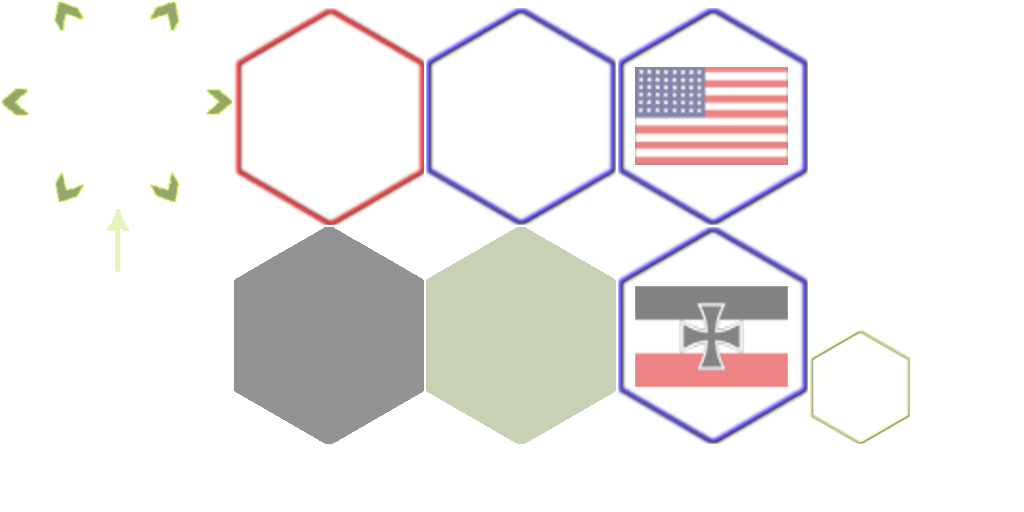
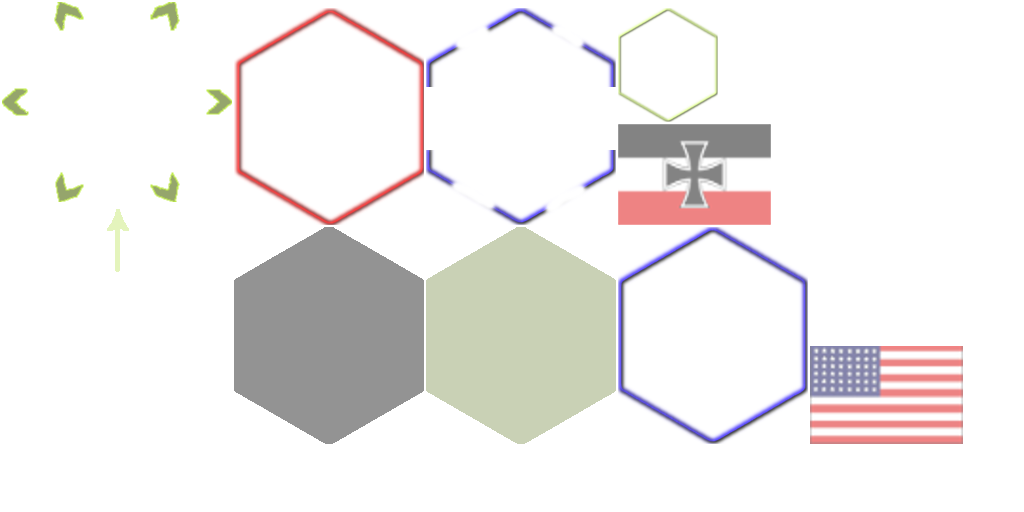
ObjectiveSet,Map,Hex: visualy differenciate objectives that has to be hold and the others

diff --git a/core/src/ch/asynk/tankontank/game/Map.java b/core/src/ch/asynk/tankontank/game/Map.java
@@ -489,11 +489,12 @@ public abstract class Map extends Board
     public void showOrientation(Hex hex, Orientation o) { enableOverlayOn(hex, Hex.ORIENTATION, o, true); }
     public void hideOrientation(Hex hex) { enableOverlayOn(hex, Hex.ORIENTATION, false); }
 
-    public void hideObjective(Hex hex)
+    public void showObjective(Hex hex, Army army, boolean hold)
     {
-        enableOverlayOn(hex, Hex.OBJECTIVE, false);
-        enableOverlayOn(hex, Hex.OBJECTIVE_US, false);
-        enableOverlayOn(hex, Hex.OBJECTIVE_GE, false);
+        if (hold)
+            enableOverlayOn(hex, Hex.OBJECTIVE_HOLD, true);
+        else
+            enableOverlayOn(hex, Hex.OBJECTIVE, true);
     }
 
     public void showObjective(Hex hex, Army army)
@@ -502,18 +503,15 @@ public abstract class Map extends Board
             case GE:
                 enableOverlayOn(hex, Hex.OBJECTIVE_GE, true);
                 enableOverlayOn(hex, Hex.OBJECTIVE_US, false);
-                enableOverlayOn(hex, Hex.OBJECTIVE, false);
                 break;
             case US:
                 enableOverlayOn(hex, Hex.OBJECTIVE_GE, false);
                 enableOverlayOn(hex, Hex.OBJECTIVE_US, true);
-                enableOverlayOn(hex, Hex.OBJECTIVE, false);
                 break;
             case NONE:
             default:
                 enableOverlayOn(hex, Hex.OBJECTIVE_GE, false);
                 enableOverlayOn(hex, Hex.OBJECTIVE_US, false);
-                enableOverlayOn(hex, Hex.OBJECTIVE, true);
                 break;
         }
     }

diff --git a/core/src/ch/asynk/tankontank/game/Hex.java b/core/src/ch/asynk/tankontank/game/Hex.java
@@ -29,9 +29,10 @@ public class Hex extends Tile
     public static final int MOVE        = 3;
     public static final int DIRECTIONS  = 4;
     public static final int ORIENTATION = 5;
-    public static final int OBJECTIVE   = 6;    // unclaimed
-    public static final int OBJECTIVE_GE= 7;
-    public static final int OBJECTIVE_US= 8;
+    public static final int OBJECTIVE       = 6;
+    public static final int OBJECTIVE_HOLD  = 7;
+    public static final int OBJECTIVE_GE    = 8;
+    public static final int OBJECTIVE_US    = 9;
 
     public Terrain terrain;
     public int roads;

diff --git a/core/src/ch/asynk/tankontank/game/ObjectiveSet.java b/core/src/ch/asynk/tankontank/game/ObjectiveSet.java
@@ -21,7 +21,7 @@ public class ObjectiveSet extends HashMap<Hex, Objective> implements MoveToAnima
     public void add(Hex hex, Army army, boolean persistent)
     {
         put(hex, new Objective(army, persistent));
-        map.showObjective(hex, army);
+        map.showObjective(hex, army, !persistent);
     }
 
     public int count(Army army)
